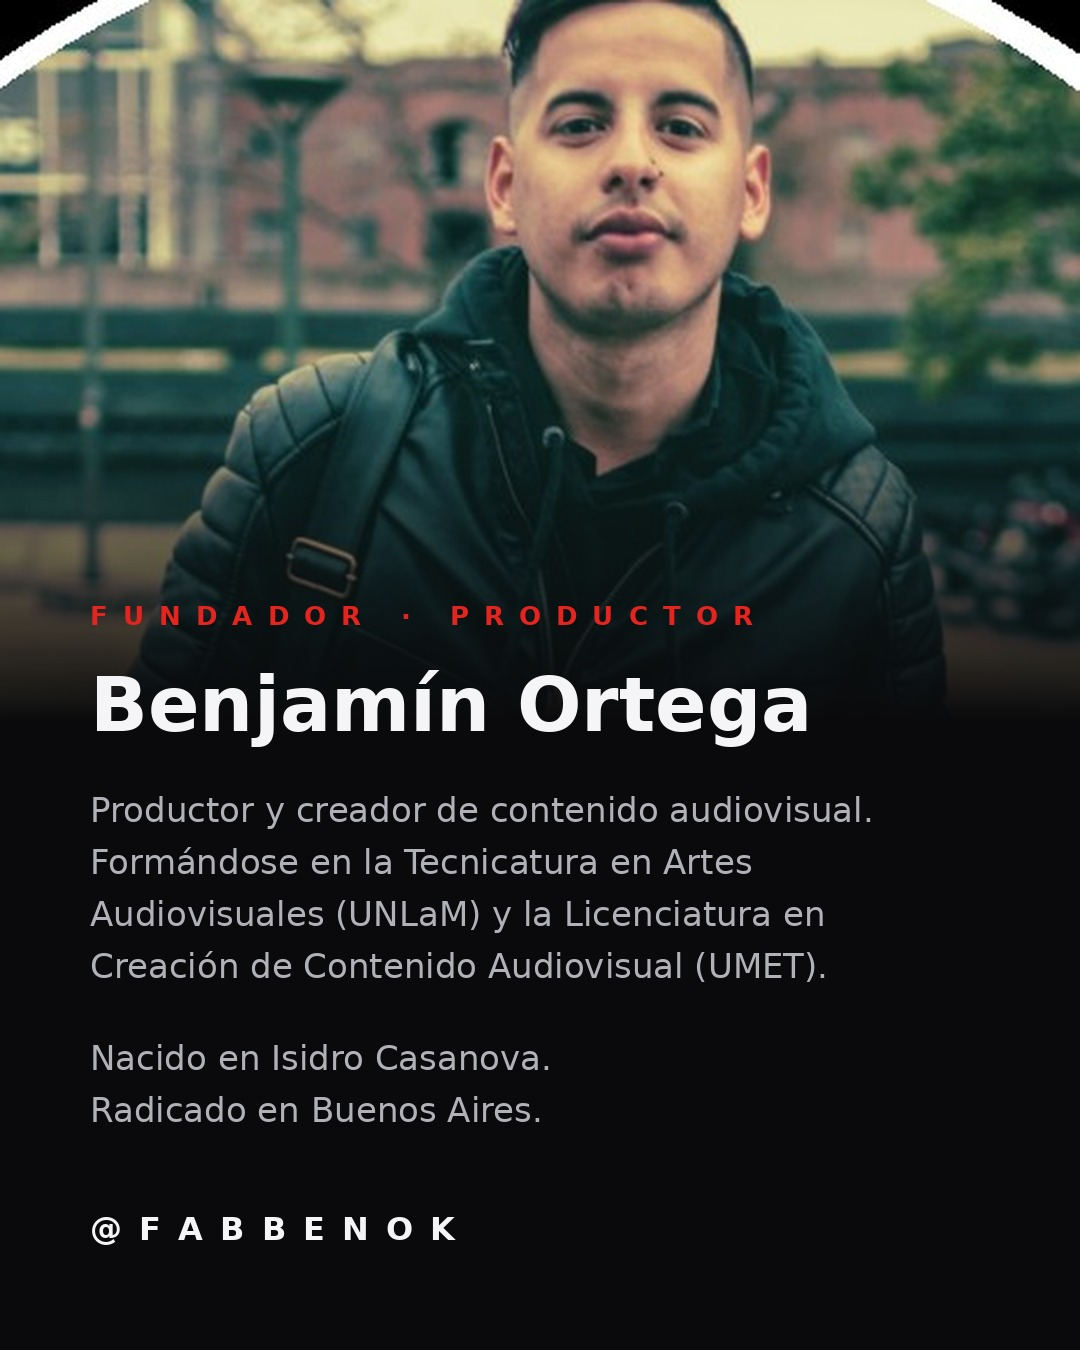
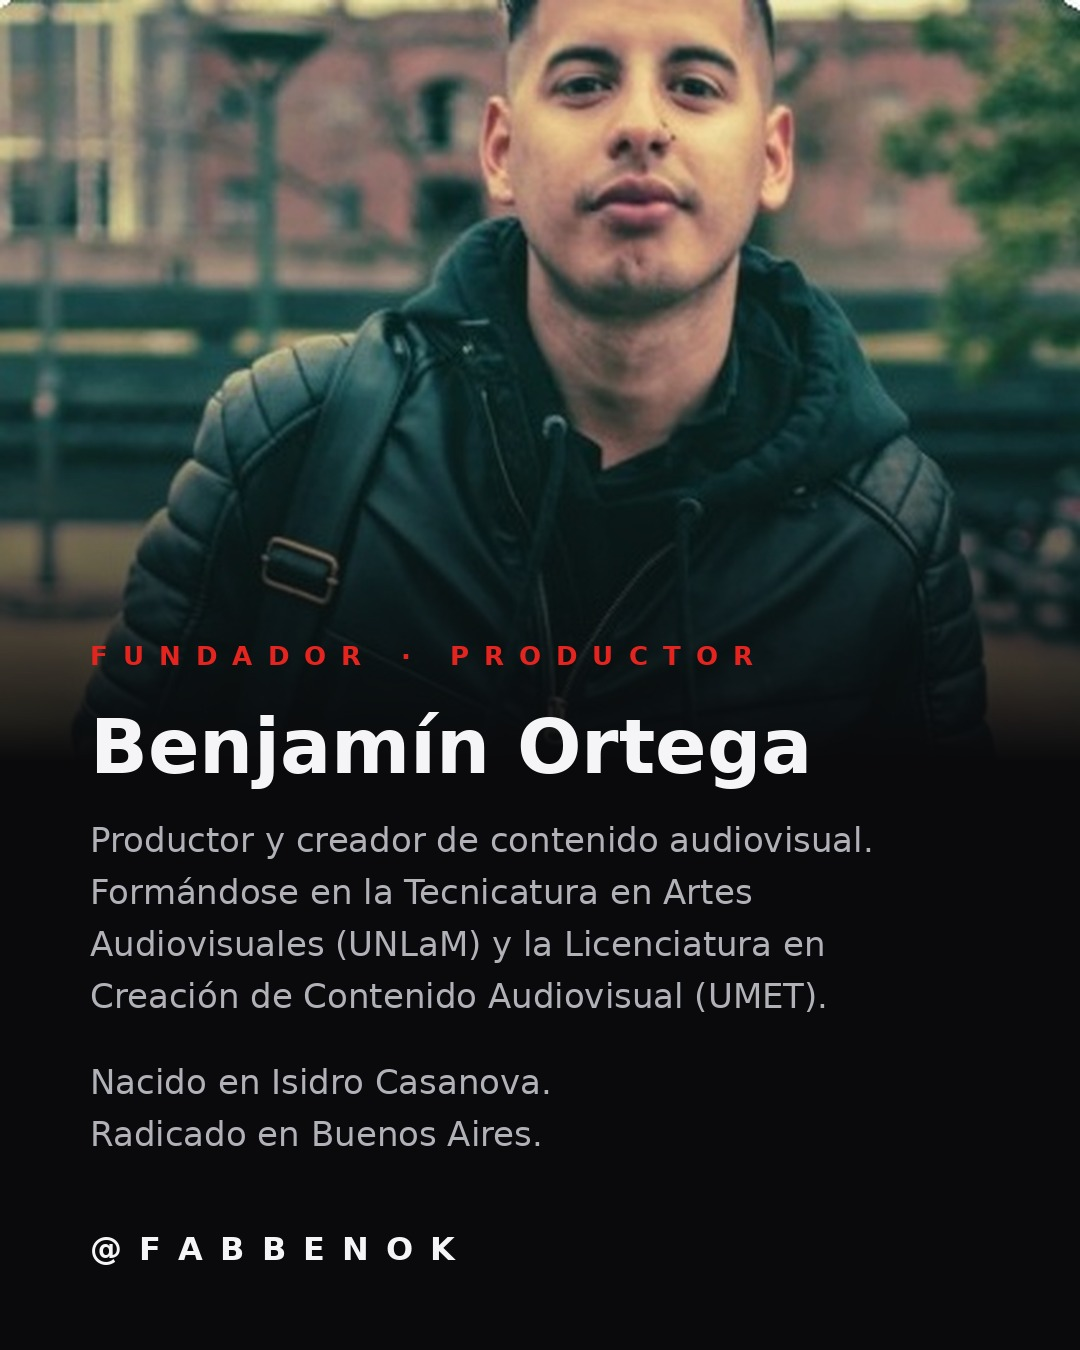
Fix founder photo rounded corners + add missing 2115films stories
- Recorta el borde negro redondeado de la foto del fundador; regenera post 4-fundador
- Suma historias faltantes de @2115films: PROYECTOS y DETRAS (1:1 con las destacadas)

Claude-Session: https://claude.ai/code/session_01UVmXQvJvFHVm5DJrwuBNEc

diff --git a/docs/impro/fix_extra.py b/docs/impro/fix_extra.py
@@ -1,0 +1,136 @@
+# -*- coding: utf-8 -*-
+# 1) foto del fundador sin esquinas redondeadas  2) regenerar post 4-fundador
+# 3) historias faltantes de @2115films: PROYECTOS y DETRAS
+from PIL import Image, ImageDraw, ImageFont, ImageFilter
+import os
+
+DASH = "/tmp/claude-0/-home-user-ig-crm/76061350-7dbf-5f43-a63f-0d21a08487a5/scratchpad/dash/"
+IMGS = DASH + "imgs/"
+MARCA = "/home/user/ig-crm/docs/impro/marca/"
+POSTS2115 = DASH + "posts2115/"
+HIST = DASH + "historias/"
+
+FB = "/usr/share/fonts/truetype/dejavu/DejaVuSans-Bold.ttf"
+FR = "/usr/share/fonts/truetype/dejavu/DejaVuSans.ttf"
+def f(p, s): return ImageFont.truetype(p, s)
+
+# ---------- 1) limpiar foto: recortar el borde negro redondeado ----------
+def clean_founder():
+    im = Image.open(MARCA + "founder-benjamin.jpg").convert("RGB")
+    w, h = im.size  # 466x654
+    # detectar cuanto entra el negro en la esquina superior-izq
+    px = im.load()
+    def is_black(p): return p[0] < 12 and p[1] < 12 and p[2] < 12
+    inset = 0
+    for k in range(0, 60):
+        if not is_black(px[k, k]): break
+        inset = k
+    inset += 6  # margen de seguridad
+    box = (inset, inset, w - inset, h - inset)
+    cl = im.crop(box)
+    cl.save(MARCA + "founder-benjamin-clean.jpg", "JPEG", quality=94)
+    cl.save(IMGS + "founder-benjamin-clean.jpg", "JPEG", quality=94)
+    print("clean founder:", cl.size, "inset", inset)
+    return cl.size
+
+# ---------- 2) regenerar post 4-fundador con la foto limpia ----------
+W, H = 1080, 1350
+NBG=(10,10,12); NINK=(245,245,247); NBODY=(176,178,184); RED=(229,36,31)
+
+def track(d, xy, text, font, fill, ls=0, anchor="la"):
+    x, y = xy
+    if ls == 0:
+        d.text((x, y), text, font=font, fill=fill, anchor=anchor); return
+    total = sum(d.textlength(c, font=font)+ls for c in text)-ls
+    if anchor.startswith("m"): x -= total/2
+    elif anchor.startswith("r"): x -= total
+    for c in text:
+        d.text((x, y), c, font=font, fill=fill, anchor="l"+anchor[1])
+        x += d.textlength(c, font=font)+ls
+
+def post4_fundador():
+    im = Image.new("RGB", (W, H), NBG)
+    ph = Image.open(IMGS+"founder-benjamin-clean.jpg").convert("RGB")
+    s = W / ph.width
+    ph = ph.resize((W, int(ph.height*s)), Image.LANCZOS)
+    ph = ph.crop((0, 0, W, min(760, ph.height)))
+    im.paste(ph, (0, 0))
+    ph_h = ph.height
+    # gradiente hacia negro en la parte baja de la foto
+    gh = 380
+    mask = Image.new("L", (W, ph_h), 0); mm = mask.load()
+    start = ph_h - gh
+    for yy in range(ph_h):
+        a = 0 if yy < start else int(((yy-start)/gh)*255)
+        for xx in range(W): mm[xx, yy] = a
+    im.paste(Image.new("RGB", (W, ph_h), NBG), (0, 0), mask)
+    d = ImageDraw.Draw(im)
+    track(d,(90, ph_h-120),"F U N D A D O R   ·   P R O D U C T O R", f(FB,26), RED, 3)
+    d.text((90, ph_h-58), "Benjamín Ortega", font=f(FB,76), fill=NINK)
+    y = ph_h + 60
+    for ln in ["Productor y creador de contenido audiovisual.",
+               "Formándose en la Tecnicatura en Artes",
+               "Audiovisuales (UNLaM) y la Licenciatura en",
+               "Creación de Contenido Audiovisual (UMET)."]:
+        d.text((90, y), ln, font=f(FR,34), fill=NBODY); y += 52
+    d.text((90, y+34), "Nacido en Isidro Casanova.", font=f(FR,34), fill=NBODY)
+    d.text((90, y+86), "Radicado en Buenos Aires.", font=f(FR,34), fill=NBODY)
+    track(d,(90, H-120),"@ F A B B E N O K", f(FB,32), NINK, 3)
+    im.save(POSTS2115+"4-fundador.jpg", "JPEG", quality=92)
+    print("post4 regen OK, foto alto", ph_h)
+
+# ---------- 3) historias faltantes @2115films ----------
+SW, SH = 1080, 1920
+M = 96
+NCARD=(23,23,27)
+CHAPA = Image.open(IMGS+"logo-2115-new.png").convert("RGBA")
+def scaled(img, w): return img.resize((w, int(img.height*w/img.width)), Image.LANCZOS)
+def rule(d, x, y, w, c, h=8): d.rectangle([x, y, x+w, y+h], fill=c)
+
+def st_track(d, xy, text, font, fill, ls=0, anchor="la"):
+    track(d, xy, text, font, fill, ls, anchor)
+
+def hist_proyectos():
+    im = Image.new("RGB", (SW, SH), NBG); d = ImageDraw.Draw(im)
+    rule(d, M, 300, 120, RED, 8)
+    st_track(d,(M,352),"N U E S T R O S   P R O Y E C T O S", f(FB,32), RED, 3)
+    # card IMPRO (activo)
+    y = 560
+    d.rounded_rectangle([M, y, SW-M, y+300], 22, fill=NCARD)
+    rule(d, M, y, 8, RED, 300)
+    d.text((M+56, y+52), "IMPRO", font=f(FB,96), fill=NINK)
+    d.text((M+56, y+178), "Serie que se filma en bares reales.", font=f(FR,36), fill=NBODY)
+    st_track(d,(M+56, y+232),"E N   R O D A J E   ·   @ E S . I M P R O", f(FB,30), RED, 2)
+    # card proximo (en desarrollo)
+    y2 = y + 360
+    d.rounded_rectangle([M, y2, SW-M, y2+300], 22, outline=(46,46,52), width=3)
+    d.text((M+56, y2+52), "PRÓXIMO", font=f(FB,72), fill=(90,90,98))
+    d.text((M+56, y2+168), "Nuevas historias en camino.", font=f(FR,36), fill=(120,120,128))
+    st_track(d,(M+56, y2+230),"E N   D E S A R R O L L O", f(FB,30), (110,110,118), 2)
+    st_track(d,(SW//2, SH-170),"2 1 : 1 5   F I L M S", f(FB,28), (110,110,118), 5, "ma")
+    im.save(HIST+"tf-4-proyectos.jpg", "JPEG", quality=91)
+    print("hist proyectos OK")
+
+def hist_detras():
+    im = Image.new("RGB", (SW, SH), NBG); d = ImageDraw.Draw(im)
+    rule(d, M, 300, 120, RED, 8)
+    st_track(d,(M,352),"D E T R Á S   D E   E S C E N A", f(FB,32), RED, 3)
+    y = 600
+    for ln in ["Cómo se construye", "una serie desde cero."]:
+        d.text((M, y), ln, font=f(FB,70), fill=NINK); y += 90
+    d.text((M, y+50), "El casting, los guiones disparadores,", font=f(FR,42), fill=NBODY)
+    d.text((M, y+108), "la búsqueda del bar, el día del piloto.", font=f(FR,42), fill=NBODY)
+    d.text((M, y+166), "Semana a semana, sin cortes.", font=f(FR,42), fill=NBODY)
+    box_y = SH - 460
+    d.rounded_rectangle([M, box_y, SW-M, box_y+130], 18, fill=NCARD)
+    rule(d, M, box_y, 8, RED, 130)
+    d.text((M+48, box_y+34), "El diario del proceso, acá", font=f(FR,34), fill=NBODY)
+    st_track(d,(M+48, box_y+80),"@ F A B B E N O K", f(FB,38), NINK, 3)
+    im.save(HIST+"tf-5-detras.jpg", "JPEG", quality=91)
+    print("hist detras OK")
+
+clean_founder()
+post4_fundador()
+hist_proyectos()
+hist_detras()
+print("DONE")
